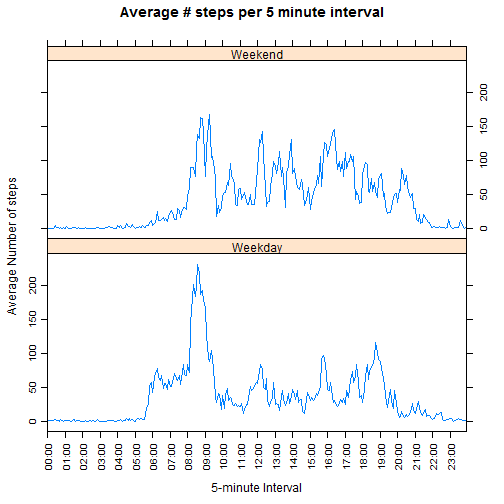
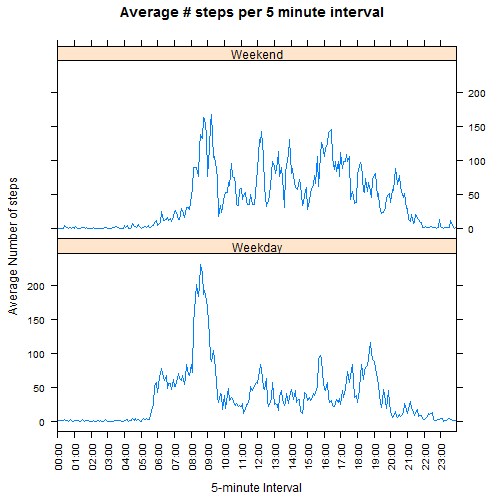
Only rotate the X axis labels

diff --git a/PA1_template.html b/PA1_template.html
@@ -295,11 +295,11 @@ xLabels = intervalMeans$interval[xTickAt]
 p &lt;- xyplot(steps ~ interval, data=intervalMeans, type=&quot;l&quot;,
             main=&quot;Average # steps per 5 minute interval&quot;,
             xlab=&quot;5-minute Interval&quot;, ylab=&quot;Average Number of steps&quot;,
-            scales=list(x=list(at=xTickAt, labels=xLabels), rot=90))
+            scales=list(x=list(at=xTickAt, labels=xLabels, rot=90)))
 print(p)
 </code></pre>
 
[2 lines of base64/hex data omitted]
 
 <pre><code class="r">maxEntry &lt;- intervalMeans[which.max(intervalMeans$steps),]
 print(paste(&quot;5-minute interval with the maximum average number of steps: &quot;, 
@@ -435,11 +435,11 @@ xTickAt = seq(1, 12*24, by=12) # one label every hour on the x axis
 p &lt;- xyplot(steps ~ interval | levels(dayType), data=dayTypeIntervalMeans, type=&quot;l&quot;,
             layout=c(1,2), main=&quot;Average # steps per 5 minute interval&quot;,
             xlab=&quot;5-minute Interval&quot;, ylab=&quot;Average Number of steps&quot;,
-            scales=list(x=list(at=xTickAt,labels=xLabels), rot=90))
+            scales=list(x=list(at=xTickAt, labels=xLabels, rot=90)))
 print(p)
 </code></pre>
 
[2 lines of base64/hex data omitted]
 
 <!-- Clean temporary variables from the environment -->
 

diff --git a/PA1_template.md b/PA1_template.md
@@ -106,7 +106,7 @@ xLabels = intervalMeans$interval[xTickAt]
 p <- xyplot(steps ~ interval, data=intervalMeans, type="l",
             main="Average # steps per 5 minute interval",
             xlab="5-minute Interval", ylab="Average Number of steps",
-            scales=list(x=list(at=xTickAt, labels=xLabels), rot=90))
+            scales=list(x=list(at=xTickAt, labels=xLabels, rot=90)))
 print(p)
 ```
 
@@ -259,7 +259,7 @@ xTickAt = seq(1, 12*24, by=12) # one label every hour on the x axis
 p <- xyplot(steps ~ interval | levels(dayType), data=dayTypeIntervalMeans, type="l",
             layout=c(1,2), main="Average # steps per 5 minute interval",
             xlab="5-minute Interval", ylab="Average Number of steps",
-            scales=list(x=list(at=xTickAt,labels=xLabels), rot=90))
+            scales=list(x=list(at=xTickAt, labels=xLabels, rot=90)))
 print(p)
 ```
 
